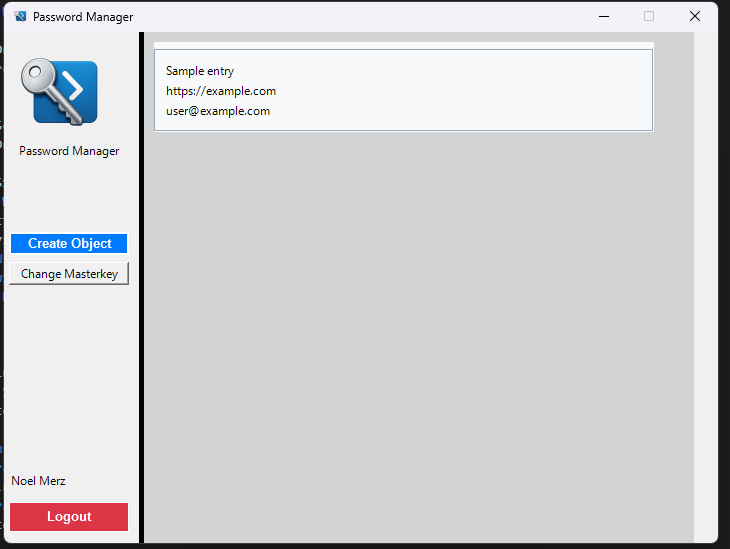
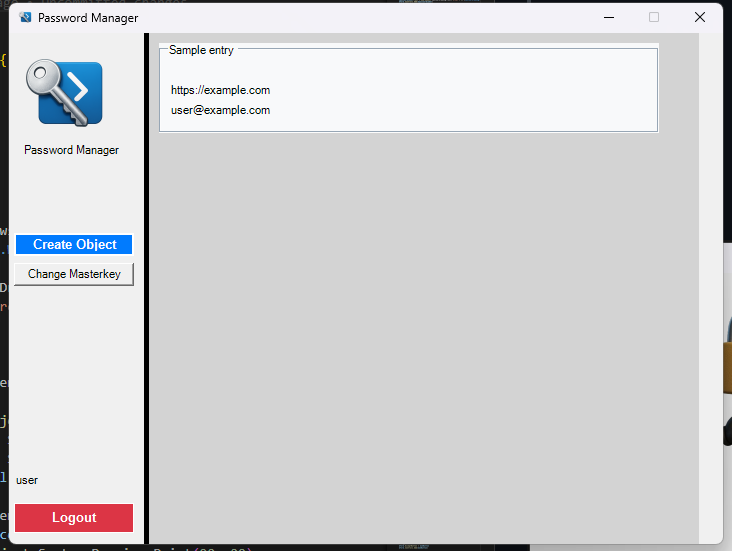
Refactor code structure for improved readability and maintainability

Changed region(s): [[0.0, 0.0, 1.0, 1.0]]

diff --git a/readme.md b/readme.md
@@ -11,11 +11,13 @@
 
 ##### Preview
 
-<br>
-
 - ##### Login
 
 <img src="preview\Login.png">
 
 - ##### Menu
+
 <img src="preview\Menu.png">
+
+- ##### UserDataPopUp
+<img src="preview\DataPopUp.png">
